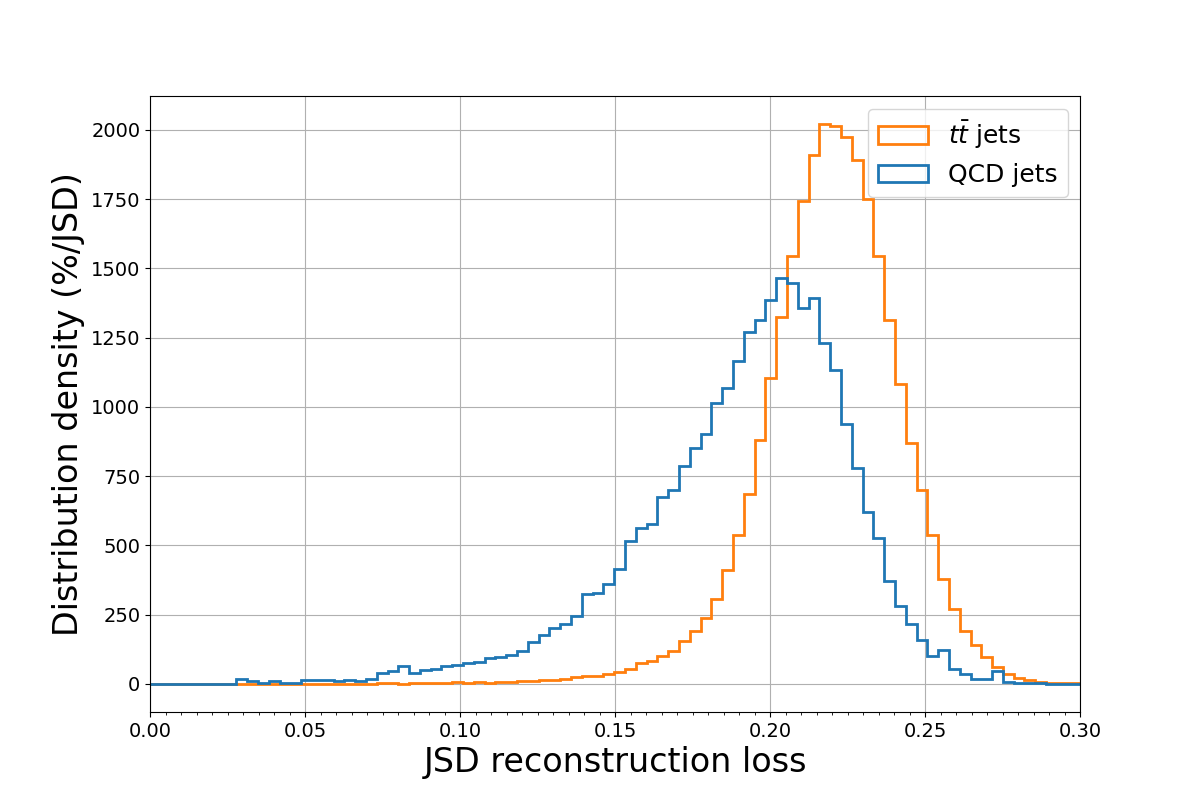
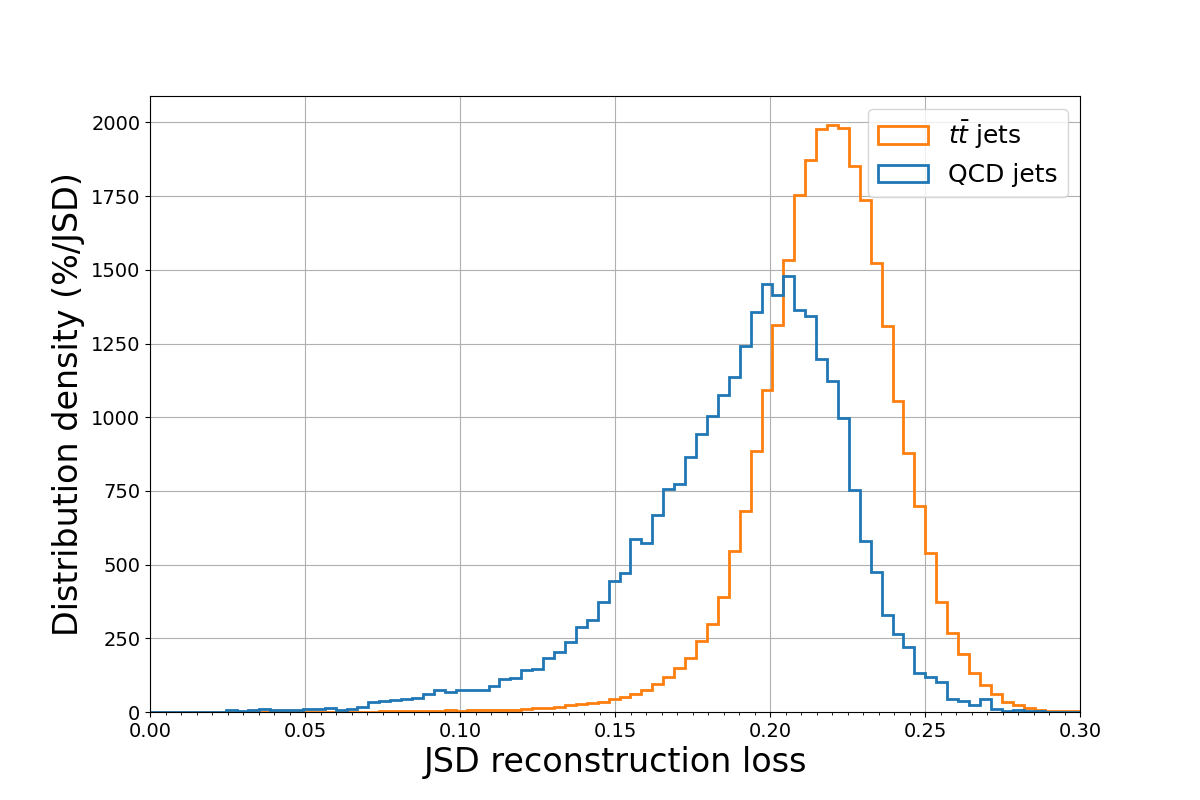
Initial commit

diff --git a/models.py b/models.py
@@ -4,6 +4,30 @@ from   tensorflow.keras.layers import Flatten, Dense, concatenate, Reshape, Drop
 from   tensorflow.keras        import Input, regularizers, models, callbacks, mixed_precision, losses, optimizers
 
 
+def create_model(input_dim, FCN_neurons, latent_dim, lr, beta):
+    #model = FCN_AE(input_dim, FCN_neurons, latent_dim)
+    model = FCN_VAE(input_dim, FCN_neurons, latent_dim, beta)
+    print('\nNEURAL NETWORK ARCHITECTURE'); model.summary(); print()
+    model.compile(optimizer=optimizers.Adam(lr=lr, amsgrad=False), loss='binary_crossentropy')
+    #model.compile(optimizer=optimizers.Adam(lr=lr, amsgrad=True), loss='mean_squared_error')
+    #model.compile(optimizer=optimizers.RMSprop(lr=lr), loss='binary_crossentropy')
+    return model
+
+
+class Sampling(Layer):
+    def call(self, inputs):
+        mean, log_var = inputs
+        return tf.keras.backend.random_normal(tf.shape(mean)) * tf.exp(log_var/2) + mean
+
+
+def callback(model_out, patience, metrics):
+    calls  = [callbacks.ModelCheckpoint(model_out, save_best_only=True, monitor=metrics, verbose=1)]
+    calls += [callbacks.ReduceLROnPlateau(patience=5, factor=0.5, min_delta=1e-5, monitor=metrics, verbose=1)]
+    calls += [callbacks.EarlyStopping(patience=patience, restore_best_weights=True,
+                                      min_delta=1e-5, monitor=metrics, verbose=1)]
+    return calls + [callbacks.TerminateOnNaN()]
+
+
 def FCN_AE(input_dim, FCN_neurons, latent_dim):
     encoder_inputs = Input(shape=(input_dim,)); z = encoder_inputs
     for n_neurons in FCN_neurons: z = Dense(n_neurons, activation='selu')(z)
@@ -38,30 +62,6 @@ def FCN_VAE(input_dim, FCN_neurons, latent_dim, beta):
                                                  - tf.square(coding_mean), axis=-1)
     vae.add_loss(beta * tf.keras.backend.mean(latent_loss)/input_dim)
     return vae
-
-
-class Sampling(Layer):
-    def call(self, inputs):
-        mean, log_var = inputs
-        return tf.keras.backend.random_normal(tf.shape(mean)) * tf.exp(log_var/2) + mean
-
-
-def create_model(input_dim, FCN_neurons, latent_dim, lr, beta):
-    #model = FCN_AE(input_dim, FCN_neurons, latent_dim)
-    model = FCN_VAE(input_dim, FCN_neurons, latent_dim, beta)
-    print('\nNEURAL NETWORK ARCHITECTURE'); model.summary(); print()
-    model.compile(optimizer=optimizers.Adam(lr=lr, amsgrad=False), loss='binary_crossentropy')
-    #model.compile(optimizer=optimizers.Adam(lr=lr, amsgrad=True), loss='mean_squared_error')
-    #model.compile(optimizer=optimizers.RMSprop(lr=lr), loss='binary_crossentropy')
-    return model
-
-
-def callback(model_out, patience, metrics):
-    calls  = [callbacks.ModelCheckpoint(model_out, save_best_only=True, monitor=metrics, verbose=1)]
-    calls += [callbacks.ReduceLROnPlateau(patience=5, factor=0.5, min_delta=1e-5, monitor=metrics, verbose=1)]
-    calls += [callbacks.EarlyStopping(patience=patience, restore_best_weights=True,
-                                      min_delta=1e-5, monitor=metrics, verbose=1)]
-    return calls + [callbacks.TerminateOnNaN()]
 
 
 '''

diff --git a/vae.py b/vae.py
@@ -65,7 +65,7 @@ if args.n_epochs > 0:
         try: os.mkdir(path)
         except FileExistsError: pass
     sample = make_sample(args.n_train, args.n_W, bkg_cuts, sig_cuts, bkg='qcd', sig='W')
-    sample = reweight_sample(sample, sig_bins=50, bkg_bins=100, weights='flat_pt')
+    sample = reweight_sample(sample, sig_bins=50, bkg_bins=100, weights=None)
     #var_distributions(sample, args.output_dir, var='pt', sig_bins=50, bkg_bins=100); sys.exit()
     sample = {key:utils.shuffle(sample[key], random_state=0) for key in sample}
     train_X, valid_X  = model_selection.train_test_split(np.float32(sample['jets']), test_size=0.2, random_state=0)

diff --git a/plots.py b/plots.py
@@ -174,5 +174,5 @@ def ROC_curves(X_true, y_true, X_pred, weights, output_dir, metrics_list, wps):
     plt.ylabel('$G_{S/B}=\epsilon_{\operatorname{sig}}/\epsilon_{\operatorname{bkg}}$', fontsize=25)
     axes.tick_params(axis='both', which='major', labelsize=12)
     plt.legend(loc='upper right', fontsize=16)
-    file_name = output_dir+'/'+'ROC.png'
+    file_name = output_dir+'/'+'ROC_plots.png'
     print('Saving ROC curves         to:', file_name); plt.savefig(file_name)

diff --git a/utils.py b/utils.py
@@ -126,7 +126,7 @@ def jets_3v(sample, idx=[0,None]):
     return np.concatenate([n[...,np.newaxis] for n in [pt, y, phi]], axis=2)
 
 
-def loss_function(P, Q, metric='JSD', delta=1e-16):
+def loss_function(P, Q, metric, delta=1e-16):
     P, Q = np.maximum(np.float64(P), delta), np.maximum(np.float64(Q), delta)
     if metric == 'JSD' or metric == 'EMD':
         idx_tuples = get_idx(len(P), n_sets=mp.cpu_count())
